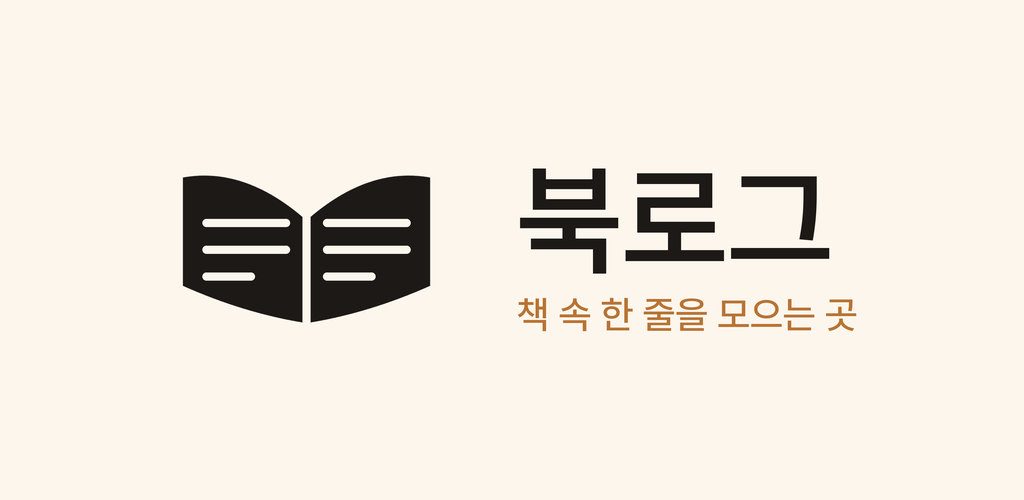
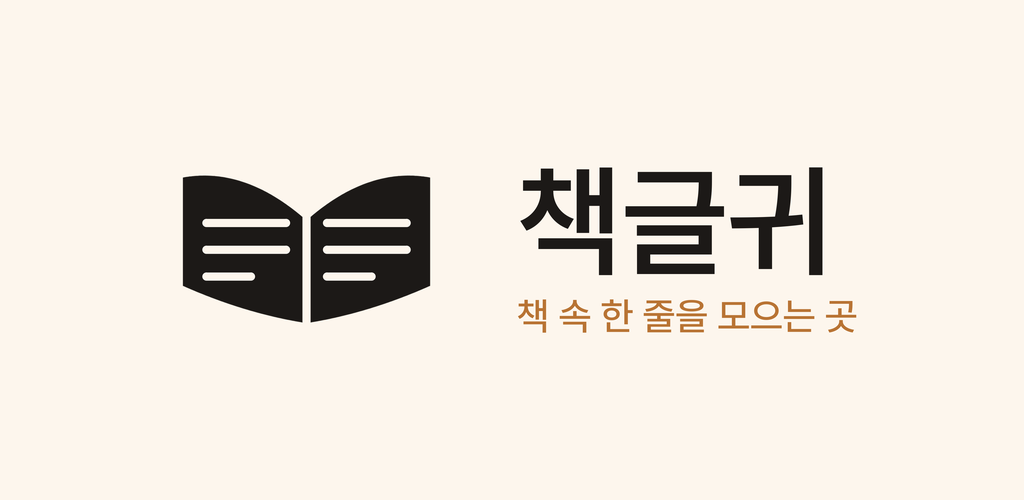
feat(card): 책 정보 폰트 시인성 강화 + 피처 그래픽 갱신
폰 실기기에서 책 제목·저자가 확대해야 보일 만큼 작다는 시인성 이슈
대응. 5종 카드(minimal·mono·warm·typography·cover_extract)의 책 정보
폰트를 두 단계 상향:

- 책 제목: AppFontSize.base/md(15~17) -> 27px (5종 일관)
- 저자: AppFontSize.sm(13) -> AppFontSize.lg(22) (5종 일관)
- 출판사: AppFontSize.xs(11) -> 20px (minimal 한정)

27·20은 토큰 단계(lg 22 ~ xl 28) 사이 값이라 카드 한정 직접 픽셀 지정.
mono 카드 letterSpacing 공식도 새 사이즈 기준으로 갱신. 다른 화면의
타이포그래피 토큰은 영향 없음.

검증: 골든카드 12종 재생성, flutter analyze clean, 277/277 통과,
SM F956N 실기기 visual QA 통과(책 정보 한 줄로도 잘 읽힘).

피처 그래픽 PNG(tool/store/feature_graphic_1024x500.png)도 어제
브랜드 변경 후 python tool/generate_store_assets.py로 재생성한
최신본을 함께 커밋 - 워드마크 "책글귀" 반영.

Changed region(s): [[0.5, 0.33, 0.8125, 0.57], [0.5, 0.6, 0.8438, 0.69]]

diff --git a/lib/features/card_editor/presentation/widgets/mono_card.dart b/lib/features/card_editor/presentation/widgets/mono_card.dart
@@ -115,9 +115,8 @@ class MonoCard extends StatelessWidget {
                     style: TextStyle(
                       fontFamily: AppFonts.ui,
                       fontWeight: FontWeight.w400,
-                      // 책 정보 시인성 보강(2026-05-21) — sm(13)→base(15).
-                      fontSize: AppFontSize.base,
-                      letterSpacing: AppFontSize.base * AppLetterSpacing.wider,
+                      fontSize: 27,
+                      letterSpacing: 27 * AppLetterSpacing.wider,
                       color: AppColors.primary300,
                     ),
                     maxLines: 1,
@@ -130,9 +129,8 @@ class MonoCard extends StatelessWidget {
                     style: TextStyle(
                       fontFamily: AppFonts.ui,
                       fontWeight: FontWeight.w400,
-                      // 책 정보 시인성 보강(2026-05-21) — xs(11)→sm(13).
-                      fontSize: AppFontSize.sm,
-                      letterSpacing: AppFontSize.sm * AppLetterSpacing.wider,
+                      fontSize: AppFontSize.lg,
+                      letterSpacing: AppFontSize.lg * AppLetterSpacing.wider,
                       color: AppColors.primary400,
                     ),
                     maxLines: 1,

diff --git a/lib/features/card_editor/presentation/widgets/minimal_card.dart b/lib/features/card_editor/presentation/widgets/minimal_card.dart
@@ -146,7 +146,7 @@ class _BookRow extends StatelessWidget {
                   style: TextStyle(
                     fontFamily: AppFonts.quote,
                     fontWeight: FontWeight.w500,
-                    fontSize: AppFontSize.base,
+                    fontSize: 27,
                     color: palette.darkVibrant,
                   ),
                   maxLines: 1,
@@ -159,7 +159,7 @@ class _BookRow extends StatelessWidget {
                   style: const TextStyle(
                     fontFamily: AppFonts.ui,
                     fontWeight: FontWeight.w400,
-                    fontSize: AppFontSize.sm,
+                    fontSize: AppFontSize.lg,
                     color: AppColors.primary500,
                   ),
                   maxLines: 1,
@@ -173,7 +173,7 @@ class _BookRow extends StatelessWidget {
                   style: const TextStyle(
                     fontFamily: AppFonts.ui,
                     fontWeight: FontWeight.w400,
-                    fontSize: AppFontSize.xs,
+                    fontSize: 20,
                     color: AppColors.primary400,
                   ),
                   maxLines: 1,

diff --git a/lib/features/card_editor/presentation/widgets/typography_card.dart b/lib/features/card_editor/presentation/widgets/typography_card.dart
@@ -145,8 +145,7 @@ class _BookInfo extends StatelessWidget {
                 style: TextStyle(
                   fontFamily: AppFonts.ui,
                   fontWeight: FontWeight.w400,
-                  // xs(11)→base(15) — 다른 템플릿 제목 스케일과 정합.
-                  fontSize: AppFontSize.base,
+                  fontSize: 27,
                   color: palette.subtextOnBackground,
                 ),
                 maxLines: 1,
@@ -159,8 +158,7 @@ class _BookInfo extends StatelessWidget {
                 style: TextStyle(
                   fontFamily: AppFonts.ui,
                   fontWeight: FontWeight.w400,
-                  // xs(11)→sm(13) — 다른 템플릿 저자 스케일과 정합.
-                  fontSize: AppFontSize.sm,
+                  fontSize: AppFontSize.lg,
                   color: palette.subtextOnBackground,
                 ),
                 maxLines: 1,

diff --git a/lib/features/card_editor/presentation/widgets/warm_card.dart b/lib/features/card_editor/presentation/widgets/warm_card.dart
@@ -240,7 +240,7 @@ class _TextPanel extends StatelessWidget {
               style: TextStyle(
                 fontFamily: AppFonts.quote,
                 fontWeight: FontWeight.w500,
-                fontSize: AppFontSize.md,
+                fontSize: 27,
                 color: titleColor,
               ),
               maxLines: 2,
@@ -253,7 +253,7 @@ class _TextPanel extends StatelessWidget {
               style: TextStyle(
                 fontFamily: AppFonts.ui,
                 fontWeight: FontWeight.w400,
-                fontSize: AppFontSize.sm,
+                fontSize: AppFontSize.lg,
                 color: authorColor,
               ),
               maxLines: 1,

diff --git a/lib/features/card_editor/presentation/widgets/cover_extract_card.dart b/lib/features/card_editor/presentation/widgets/cover_extract_card.dart
@@ -211,7 +211,7 @@ class _BookInfo extends StatelessWidget {
             style: TextStyle(
               fontFamily: AppFonts.quote,
               fontWeight: FontWeight.w500,
-              fontSize: AppFontSize.md,
+              fontSize: 27,
               color: palette.subtextOnBackground,
             ),
             maxLines: 2,
@@ -224,7 +224,7 @@ class _BookInfo extends StatelessWidget {
             style: TextStyle(
               fontFamily: AppFonts.ui,
               fontWeight: FontWeight.w400,
-              fontSize: AppFontSize.sm,
+              fontSize: AppFontSize.lg,
               color: palette.subtextOnBackground,
             ),
             maxLines: 1,
